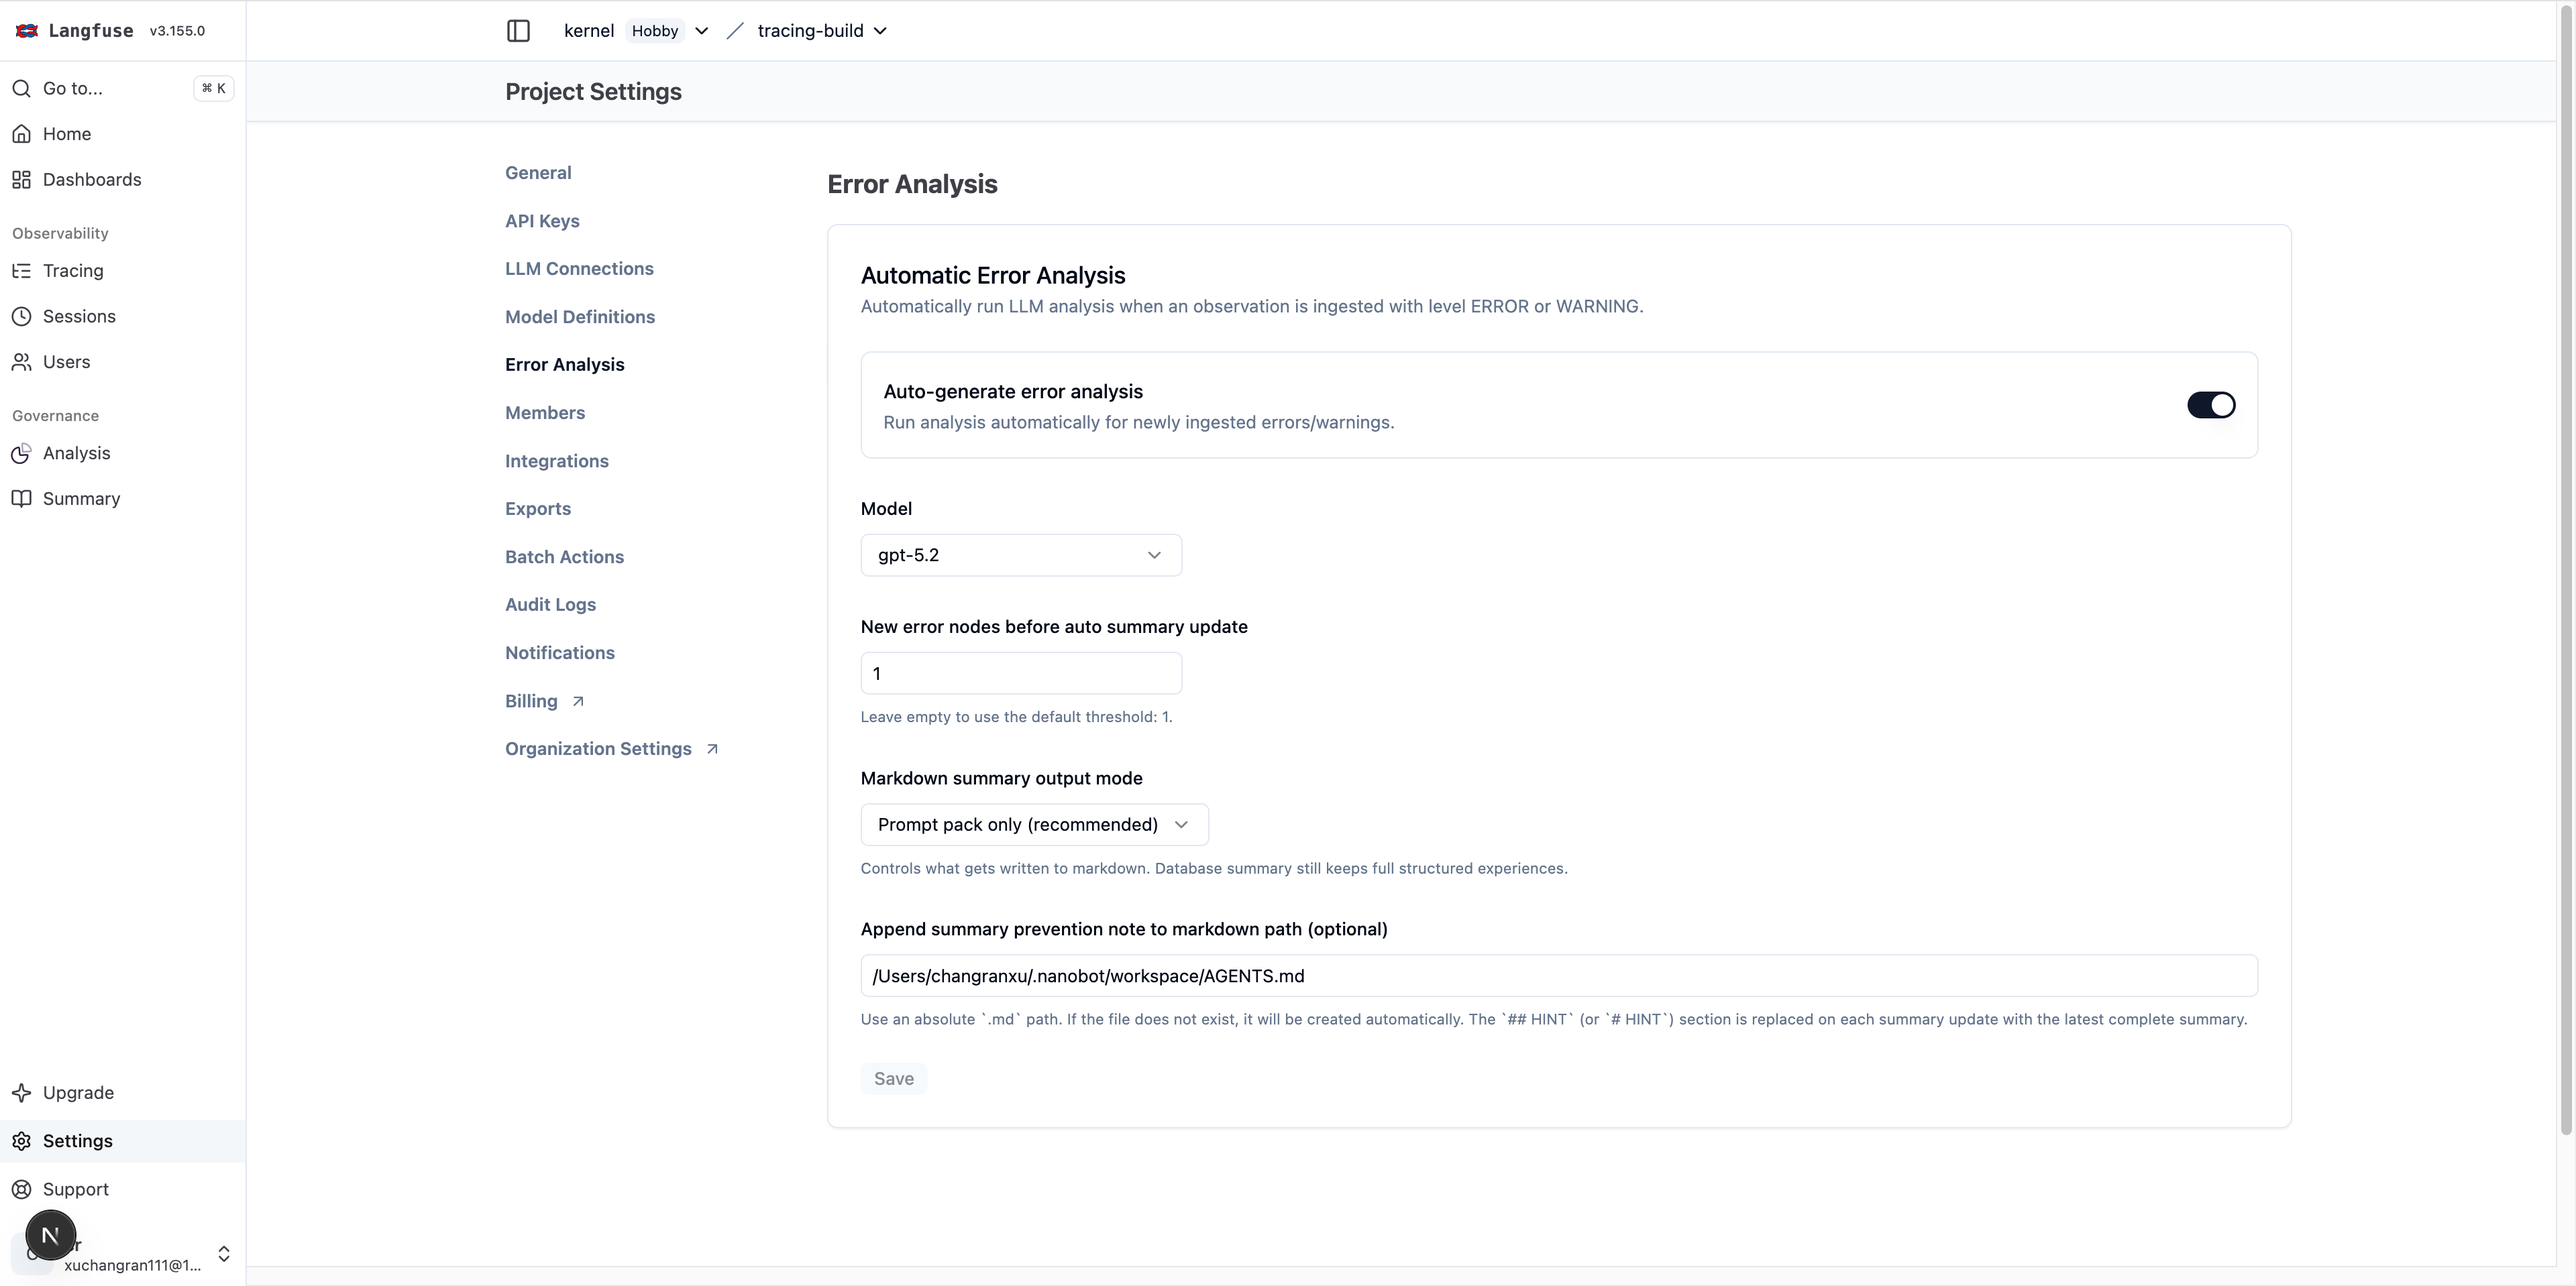
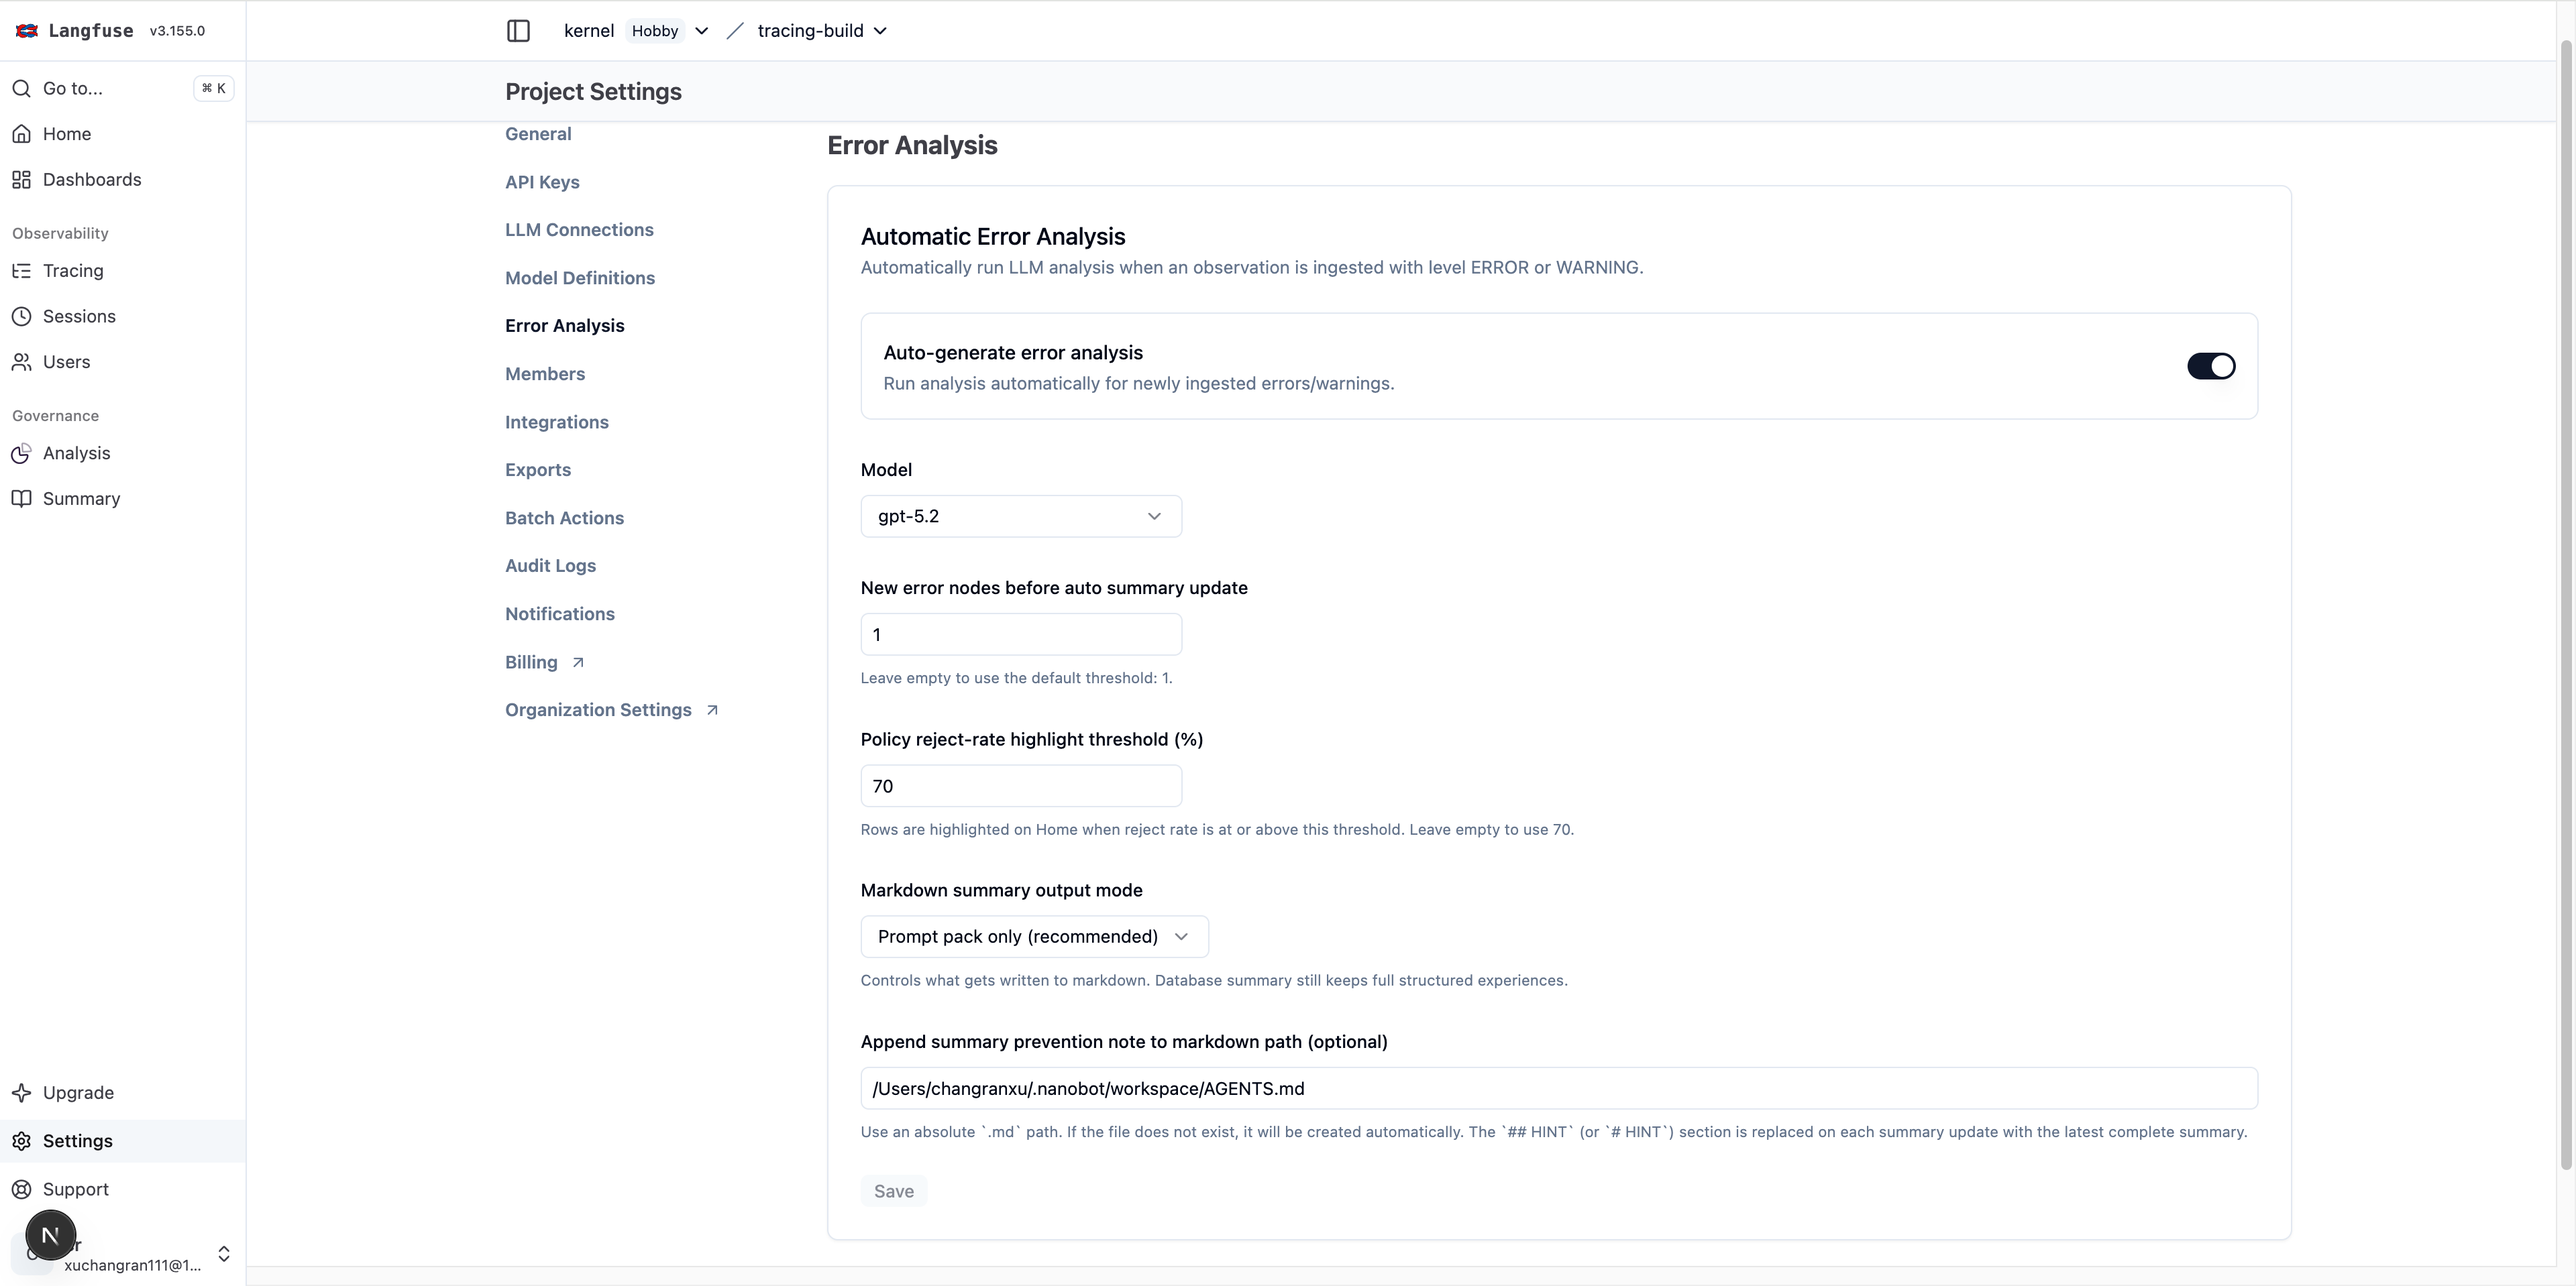
fix: update doc

diff --git a/docs/visualization.md b/docs/visualization.md
@@ -80,7 +80,38 @@ The Home page includes a **Policy violations** table card for policy-focused tri
 - **Result**:
   - Directly lands in the policy investigation view, reducing manual filtering steps
 
-![Policy violations card](./images/langfuse/policy-violation-card.png)
+## Policy confirmation stats (Home quick entry)
+
+The Home page also includes a **Policy confirmation stats** card for reviewing
+how users respond to policy confirmation prompts.
+
+- **Main fields**:
+  - **Policy**
+  - **Total**
+  - **Accepted** (rate and count)
+  - **Rejected** (rate and count)
+- **Sorting and highlight**:
+  - Rows are sorted by rejected ratio in descending order
+  - Rows at or above the configured reject-rate threshold are highlighted
+  - You can adjust this threshold in Settings via
+    **Policy reject-rate highlight threshold (%)**
+- **Clickable counts**:
+  - Clicking the accepted/rejected count opens a detail panel for that policy
+    and confirmation state
+  - The detail panel lists matching turns and shows the corresponding full trace
+
+![Policy confirmation count details](./images/langfuse/count_details.png)
+
+- **Turn-level inspection**:
+  - The node list is scoped to the matching `session.turn.xxx` node
+  - The matching turn node is selected by default so the trace detail view opens
+    directly on that node
+- **Common usage**:
+  - Quickly identify policies with high reject rates
+  - Drill from aggregate policy stats into the exact turn where the user
+    accepted or rejected the policy confirmation
+
+![Policy card](./images/langfuse/policy-card.png)
 
 ---
 
@@ -269,7 +300,8 @@ The Analysis page has two main view modes:
   - Insert the current Summary into a Markdown file (typically the system prompt) so the LLM can avoid repeating the same errors and know how to fix them.
 
 - **Settings**
-  - Open settings (analysis, Markdown file path, etc.).
+  - Open settings (analysis, Markdown file path,
+    **Policy reject-rate highlight threshold (%)**, etc.).
 
 - **Copy all**
   - Copy the full summary text for use in prompts (including Prompt Pack and experience lines).
@@ -361,14 +393,23 @@ Error Analysis and Summary generation depend on the API configuration in LLM Con
   - Must be a positive integer
   - Minimum value is 1
 
-### 4) Markdown summary output mode
+### 4) Policy reject-rate highlight threshold (%)
+
+- Controls when rows in the Home page **Policy confirmation stats** card are highlighted
+- If a policy's reject rate is at or above this threshold, that row is highlighted on Home
+- **Leave empty**: Use system default (70)
+- Common usage:
+  - Lower it to surface more policies for review
+  - Raise it to highlight only the most rejection-heavy policies
+
+### 5) Markdown summary output mode
 
 - Controls what is written to the Markdown file:
   - **Prompt pack only (recommended)**: Output only the Prompt Pack
   - **Prompt pack + experiences**: Output both Prompt Pack and Experiences
 - Note: This affects only the Markdown file content, not the full structured Summary data in the database
 
-### 5) Append summary prevention note to markdown path (optional)
+### 6) Append summary prevention note to markdown path (optional)
 
 - Specify an absolute path to a Markdown file for writing/updating the summary
 - The Markdown file is typically the Agent system prompt file. As experience accumulates, the Agent output becomes more reliable and avoids repeating the same errors.
